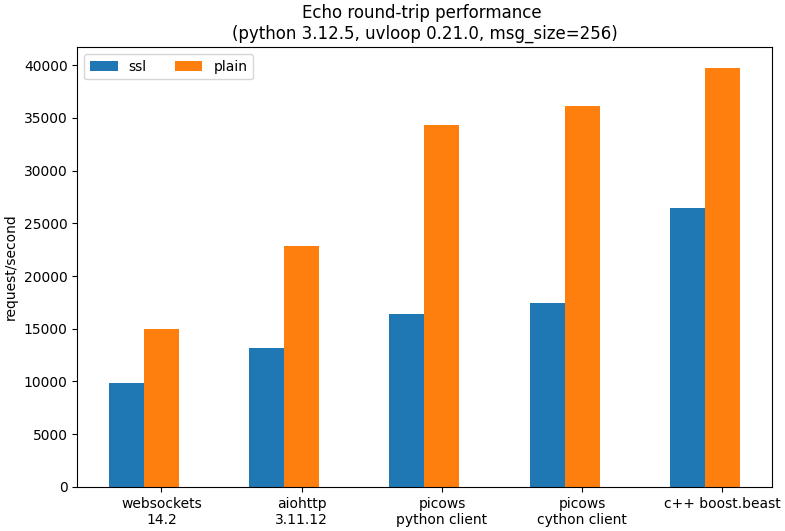
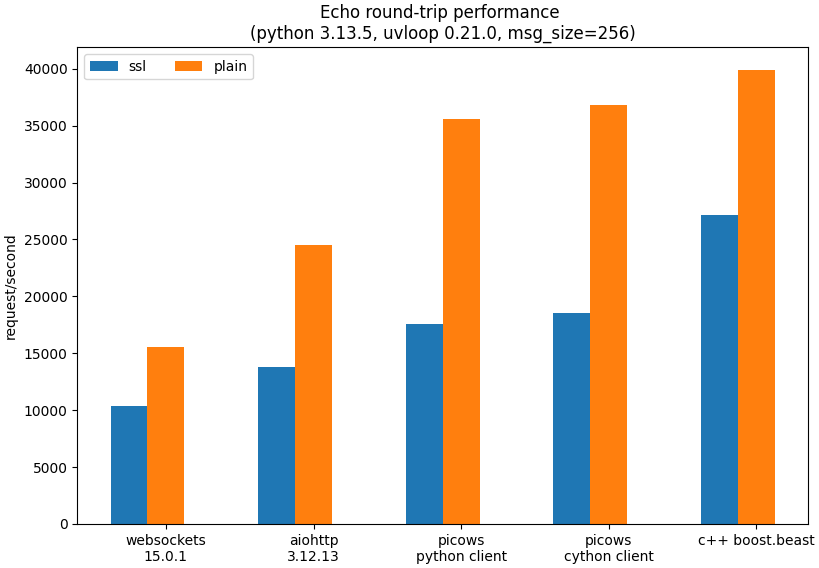
Updated benchmark chart and README

diff --git a/examples/subprotocol_negotiation.py b/examples/subprotocol_negotiation.py
@@ -1,3 +1,8 @@
+# This example shows how to implement subprotocol negotiation at upgrade stage.
+# In websockets this is done by sending "Sec-WebSocket-Protocol" header in HTTP Upgrade request/response.
+# picows treats "Sec-WebSocket-Protocol" as any other extra header and let user to fully define it's content both
+# at client and server sides.
+
 import asyncio
 import logging
 from http import HTTPStatus

diff --git a/examples/broadcast_client.py b/examples/broadcast_client.py
@@ -1,3 +1,6 @@
+# A simple client for broadcast_server.py
+# Just dump messages from the server
+
 import asyncio
 from picows import ws_connect, WSFrame, WSTransport, WSListener
 

diff --git a/examples/okx_roundtrip_time.py b/examples/okx_roundtrip_time.py
@@ -1,3 +1,6 @@
+# This example shows how to use WSTransport.measure_roundtrip_time
+# It may be used to check connection latency.
+
 import asyncio
 import logging
 

diff --git a/examples/echo_server.py b/examples/echo_server.py
@@ -1,3 +1,5 @@
+# Simple websocket echo server for both plain and ssl connections.
+
 import asyncio
 import os
 import pathlib

diff --git a/README.rst b/README.rst
@@ -28,8 +28,8 @@ Implemented in Cython, it offers exceptional speed and efficiency, surpassing ot
 
 The above chart shows the performance of echo clients communicating with a server through a loopback interface using popular Python libraries. 
 `boost.beast client <https://www.boost.org/doc/libs/1_85_0/libs/beast/example/websocket/client/sync/websocket_client_sync.cpp>`_
-is also included for reference. Typically, picows is ~1.5-2 times faster than aiohttp. All Python clients use uvloop. Please find the benchmark sources 
-`here <https://github.com/tarasko/picows/blob/master/examples/echo_client_benchmark.py>`_.
+is also included for reference. All Python clients use uvloop. Please find the benchmark sources
+`here <https://github.com/tarasko/picows/blob/master/examples/benchmark.py>`_.
 
 Installation
 ============
@@ -183,7 +183,7 @@ Contributing / Building From Source
 5. Run benchmark::
 
     $ python -m examples.echo_server
-    $ python -m examples.echo_client_benchmark
+    $ python -m examples.benchmark
 
 6. Build docs::
 
